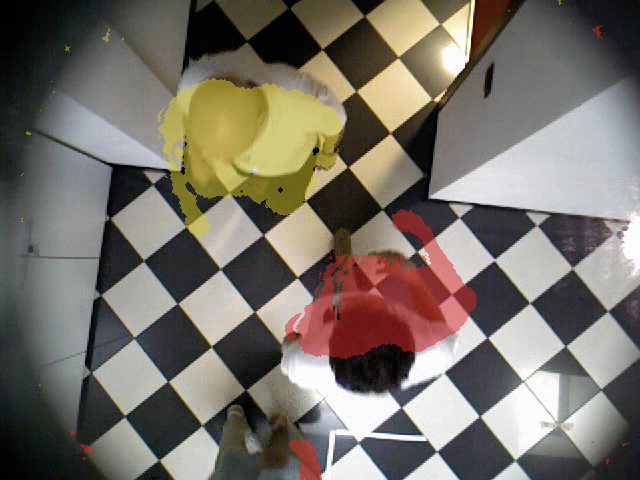
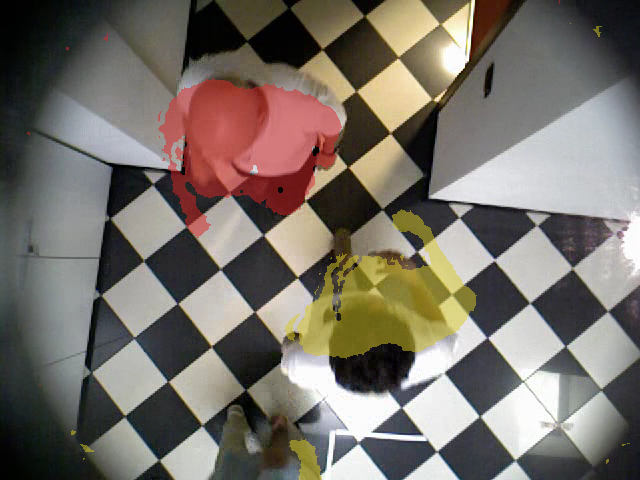
Moved detector from skimage to openCV

diff --git a/detector.py b/detector.py
@@ -1,16 +1,8 @@
-import warnings
 from argparse import ArgumentParser
 
 import numpy as np
-from scipy.cluster import hierarchy
-from scipy.spatial import ConvexHull
-from skimage.filters import gaussian, laplace
-from skimage.io import imread, imsave, imshow, show
-from skimage.morphology import closing, dilation, opening
-from sklearn.cluster import AgglomerativeClustering, KMeans
-from sklearn.metrics import calinski_harabaz_score, silhouette_score
 
-warnings.filterwarnings("ignore", category=UserWarning)
+import cv2 as cv
 
 # add parser for script working modes
 parser = ArgumentParser()
@@ -18,6 +10,10 @@ parser.add_argument("--mode", dest="mode",
                     choices=['show_all', 'show_errors', 'save'],
                     default='show_all',
                     help="Either show or save images")
+parser.add_argument("--eta", dest="eta",
+                    type=float,
+                    default=0.42,
+                    help="Regularization parameter")
 args = parser.parse_args()
 
 # ground truth
@@ -27,24 +23,33 @@ true_Ks = [0, 1, 3, 3,
            4, 3, 2, 2,
            3, 3]
 
-# paint each cluster of a different color
+# paint each cluster of a different color (B, G, R) format
 cluster_colors = {
-    0: np.array([216, 39, 39]) / 255,
-    1: np.array([216, 201, 39]) / 255,
-    2: np.array([115, 216, 39]) / 255,
-    3: np.array([39, 216, 168]) / 255,
-    4: np.array([39, 130, 216]) / 255,
-    5: np.array([71, 39, 216]) / 255,
-    6: np.array([216, 39, 139]) / 255
+    0: np.array([39, 39, 216]),
+    1: np.array([39, 201, 216]),
+    2: np.array([39, 216, 115]),
+    3: np.array([168, 216, 39]),
+    4: np.array([216, 130, 39]),
+    5: np.array([216, 39, 71]),
+    6: np.array([139, 39, 216])
 }
 
 def read(image_id, kind):
     '''
     Read image corresponding to image_id, either of kind "color" or "depth"
     '''
-    image = imread('dataset/{}{}.png'.format(kind, image_id))
+    path = 'dataset/{}{}.png'.format(kind, image_id)
 
-    return image / np.max(image)
+    if kind == 'depth':
+        # convert image to float automatically
+        image = cv.imread(path, cv.IMREAD_UNCHANGED)
+        image = np.float32(image)
+        image /= np.max(image)
+    elif kind == 'color':
+        # convert image to float automatically
+        image = cv.imread(path)
+
+    return image
 
 # read image with no people, as environment reference
 none_depth = read(0, 'depth')
@@ -66,21 +71,21 @@ for image_id in range(1, 18):
 
     # remove border noise: detect high derivative points of different
     # sign and close to each other with second order derivative
-    first_derivative = laplace(depth_image)
-    second_derivative = laplace(first_derivative)
+    first_derivative = cv.Laplacian(depth_image, cv.CV_32F, 3)
+    second_derivative = cv.Laplacian(first_derivative, cv.CV_32F, 3)
 
     # threshold both first and second order derivatives, creating a mask
     first_mask = np.asarray(np.abs(second_derivative) > 0.75)
     second_mask = np.asarray(np.abs(first_derivative) > 0.25)
-    mask = np.asarray(np.logical_and(first_mask, second_mask), dtype=np.float)
+    mask = np.asarray(np.logical_and(first_mask, second_mask), dtype=np.float32)
 
     # consider mask points neighbours, to remove noise completely
-    noisy_borders = dilation(mask) == 1
-    depth_image[noisy_borders] = np.mean(depth_image)
+    noisy_borders = cv.dilate(mask, np.ones((3, 3)), iterations=1)
+    depth_image[noisy_borders == 1.] = np.mean(depth_image)
 
     # create (row, col, color) data
     rows, cols = np.mgrid[0:depth_image.shape[0],
-                          0:depth_image.shape[1]]
+                              0:depth_image.shape[1]]
     rows = rows.ravel(order='F')
     cols = cols.ravel(order='F')
     values = depth_image.ravel(order='F')
@@ -88,6 +93,7 @@ for image_id in range(1, 18):
 
     # filter out background points, to speed up clustering
     points = points[points[:, 2] > 0.6]
+    points = np.float32(points)
 
     # save clustering and score for various number of clusters
     # in order to assess the best one
@@ -95,16 +101,27 @@ for image_id in range(1, 18):
     scores = []
     clusters_candidates = []
 
+    # set Kmeans parameters once for all
+    accuracy = cv.TERM_CRITERIA_EPS + cv.TERM_CRITERIA_MAX_ITER
+    max_iters = 10
+    convergence_type = 1.0
+
+    Kmeans_params = {
+        'criteria': (accuracy, max_iters, convergence_type),
+        'attempts': 10,
+        'flags': cv.KMEANS_PP_CENTERS,
+        'bestLabels': None
+    }
+
     # test various number of clusters
     for K in Ks:
-        cl = KMeans(n_clusters=K, n_jobs=-2)
-        clusters = cl.fit_predict(points)
+        inertia, labels, centers = cv.kmeans(points, K, **Kmeans_params)
 
-        clusters_candidates.append(clusters)
+        clusters_candidates.append(labels)
 
         # use mean square distance from its centroid for each point
         # in the dataset, penalizing fragmented clusterings
-        score = np.log(cl.inertia_) + K * 0.4
+        score = np.log(inertia) + K * args.eta
         scores.append(score)
 
     # find clustering with best score
@@ -112,7 +129,7 @@ for image_id in range(1, 18):
 
     best_K = Ks[best_index]
     best_clustering = clusters_candidates[best_index]
-    points[:, 2] = best_clustering
+    points[:, 2] = best_clustering.reshape( (-1,) )
 
     # mark clusters in original (color) image
     for x, y, cluster in points:
@@ -129,21 +146,17 @@ for image_id in range(1, 18):
         print('In {}, found {} people, {} expected'.format(image_id,
                                                            best_K,
                                                            true_Ks[image_id]))
-
-        # for n, score in zip(range(1, 5), scores):
-            # print('n={} => score={}'.format(n, score))
     else:
         correct += 1
 
-    if args.mode == 'show_all':
-        imshow(color_image)
+    if args.mode == 'show_all' or (args.mode == 'show_errors' and error):
+        window_name = 'image {}'.format(image_id)
+        cv.imshow(window_name, color_image)
 
-    elif args.mode == 'show_errors' and error:
-        imshow(color_image)
+        cv.waitKey(0)
+        cv.destroyWindow(window_name)
 
     elif args.mode == 'save':
-        imsave('results/detection-{}.png'.format(image_id), color_image)
-
-    show()
+        cv.imwrite('results/detection-{}.png'.format(image_id), color_image)
 
 print('{}/{} are correct'.format(correct, len(true_Ks) - 1))
